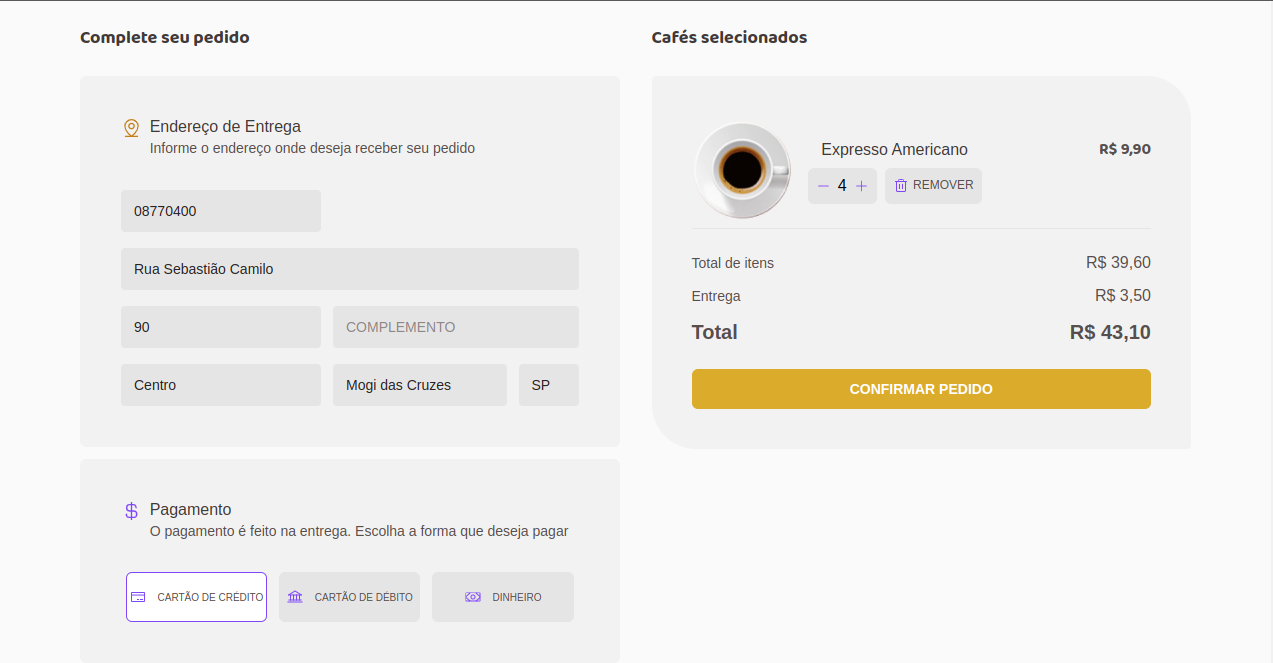
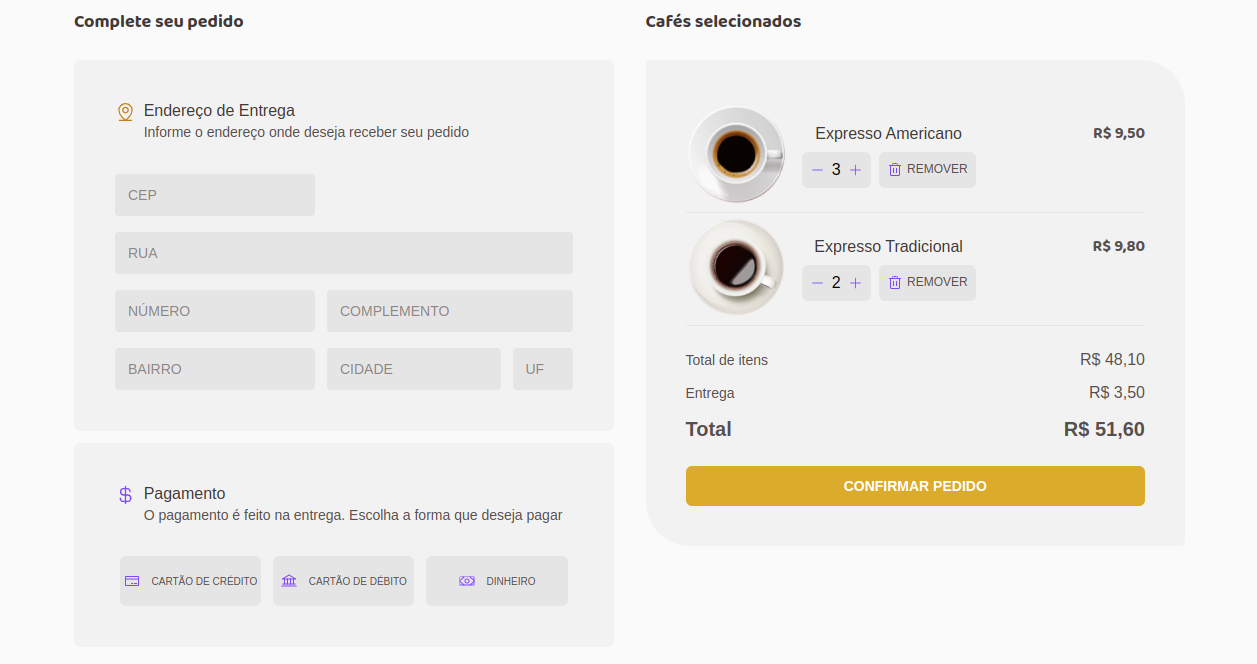
docs: imagens modificadas no README

diff --git a/src/database/coffeesData.ts b/src/database/coffeesData.ts
@@ -29,7 +29,7 @@ export const coffees: ICoffee[] = [
     expecification: ['Tradicional'],
     name: 'Expresso Americano',
     details: 'Expresso diluído, menos intenso que o tradicional',
-    price: 9.9,
+    price: 9.5,
   },
   {
     id: 'a3c7c8e9-6e64-4a87-86f3-6a2c58fd0cae',
@@ -37,7 +37,7 @@ export const coffees: ICoffee[] = [
     expecification: ['Tradicional'],
     name: 'Expresso Tradicional',
     details: 'O tradicional café feito com água quente e grãos moídos',
-    price: 9.9,
+    price: 9.8,
   },
   {
     id: '34ba3273-9ebe-43c5-8744-e1cfbbc2074b',
@@ -45,7 +45,7 @@ export const coffees: ICoffee[] = [
     expecification: ['Tradicional'],
     name: 'Expresso Cremoso',
     details: 'Café expresso tradicional com espuma cremosa',
-    price: 9.9,
+    price: 7.5,
   },
   {
     id: '344cbffd-cf19-44e7-ac39-2d8c9a468761',
@@ -53,7 +53,7 @@ export const coffees: ICoffee[] = [
     expecification: ['Tradicional', 'Gelado'],
     name: 'Expresso Gelado',
     details: 'Bebida preparada com café expresso e cubos de gelo',
-    price: 9.9,
+    price: 8.5,
   },
   {
     id: '1382321b-e661-41db-8469-3f85f9a914f2',
@@ -61,7 +61,7 @@ export const coffees: ICoffee[] = [
     expecification: ['Tradicional', 'Com leite'],
     name: 'Café com Leite',
     details: 'Meio a meio de expresso tradicional com leite vaporizado',
-    price: 9.9,
+    price: 6.9,
   },
   {
     id: '1f131fc3-e25f-443e-94af-537db0ad2229',
@@ -69,7 +69,7 @@ export const coffees: ICoffee[] = [
     expecification: ['Tradicional', 'Com leite'],
     name: 'Latte',
     details: 'Uma dose de café expresso com o dobro de leite e espuma cremosa',
-    price: 9.9,
+    price: 7.5,
   },
   {
     id: '9b79d584-16d5-4969-b2a3-1227d3ce6774',
@@ -85,7 +85,7 @@ export const coffees: ICoffee[] = [
     expecification: ['Tradicional', 'Com leite'],
     name: 'Macchiato',
     details: 'Café expresso misturado com um pouco de leite quente e espuma',
-    price: 9.9,
+    price: 8.8,
   },
   {
     id: 'c32b04e7-4853-4365-a168-2a8df4bfd5a5',
@@ -93,7 +93,7 @@ export const coffees: ICoffee[] = [
     expecification: ['Tradicional', 'Com leite'],
     name: 'Mocaccino',
     details: 'Café expresso com calda de chocolate, pouco leite e espuma',
-    price: 9.9,
+    price: 10.99,
   },
   {
     id: '26a2dd7e-0c06-4d5a-8b7a-a93932a2e52f',
@@ -101,7 +101,7 @@ export const coffees: ICoffee[] = [
     expecification: ['Especial', 'Com leite'],
     name: 'Chocolate Quente',
     details: 'Bebida feita com chocolate dissolvido no leite quente e café',
-    price: 9.9,
+    price: 12.9,
   },
   {
     id: '0a786379-031a-4892-89b7-d5b6698c016b',
@@ -109,7 +109,7 @@ export const coffees: ICoffee[] = [
     expecification: ['Especial', 'Alcoólico', 'Gelado'],
     name: 'Cubano',
     details: 'Drink gelado de café expresso com rum, creme de leite e hortelã',
-    price: 9.9,
+    price: 10.99,
   },
   {
     id: '6439eb0d-6bc5-47df-ae00-b971fe488886',
@@ -117,7 +117,7 @@ export const coffees: ICoffee[] = [
     expecification: ['Especial'],
     name: 'Havaiano',
     details: 'Bebida adocicada preparada com café e leite de coco',
-    price: 9.9,
+    price: 8.99,
   },
   {
     id: '70790292-1fe1-4718-a53f-d2d291e4c8ad',
@@ -125,7 +125,7 @@ export const coffees: ICoffee[] = [
     expecification: ['Especial'],
     name: 'Árabe',
     details: 'Bebida preparada com grãos de café árabe e especiarias',
-    price: 9.9,
+    price: 13.99,
   },
   {
     id: 'b9467df1-173e-4218-9b11-006e42d06ab5',
@@ -133,6 +133,6 @@ export const coffees: ICoffee[] = [
     expecification: ['Especial', 'Alcoólico'],
     name: 'Irlandês',
     details: 'Bebida a base de café, uísque irlandês, açúcar e chantilly',
-    price: 9.9,
+    price: 11.99,
   },
 ]

diff --git a/README.md b/README.md
@@ -4,7 +4,7 @@
  * Coffee Delivery é um site que consiste em desenvolver uma aplicação para gerenciar um carrinho de compras de uma cafeteria fictícia
 
 <img src="./assets/firstPage.png" alt="firstPage-photo-1" width="600px" height="300">
-<img src="./assets/firstPageMenuCoffee.png" alt="firstPageMenuCoffe-photo-2" width="600px" height="300">
+<img src="./assets/menu-coffees.png" alt="firstPageMenuCoffe-photo-2" width="600px" height="300">
 <img src="./assets/checkoutPage.png" alt="checkoutPage-photo-3" width="600px" height="300">
 <img src="./assets/successPage.png" alt="successPage-photo-4" width="600px" height="300">
 
